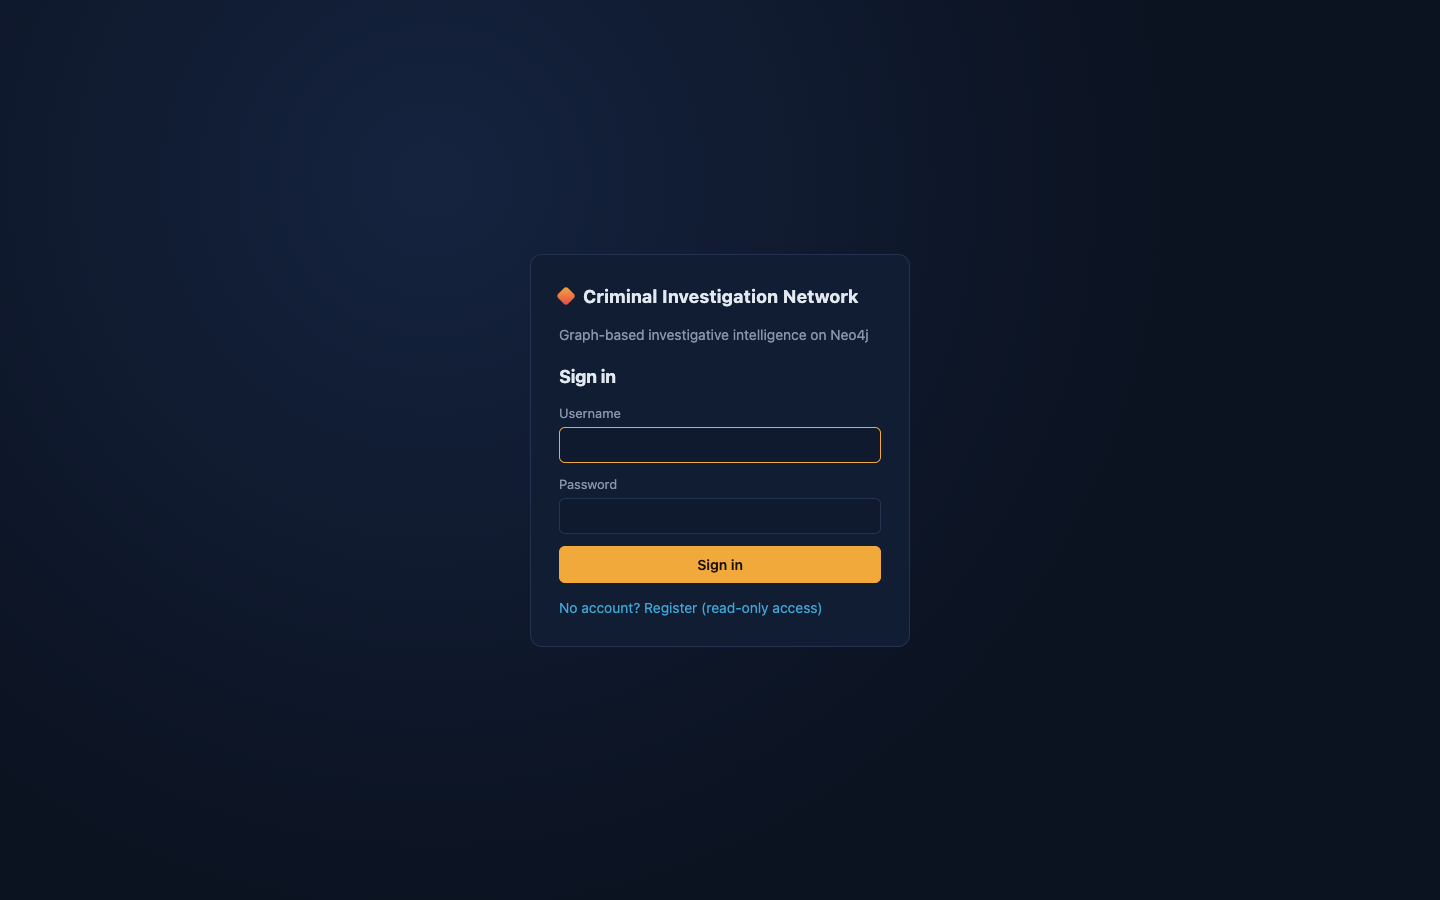
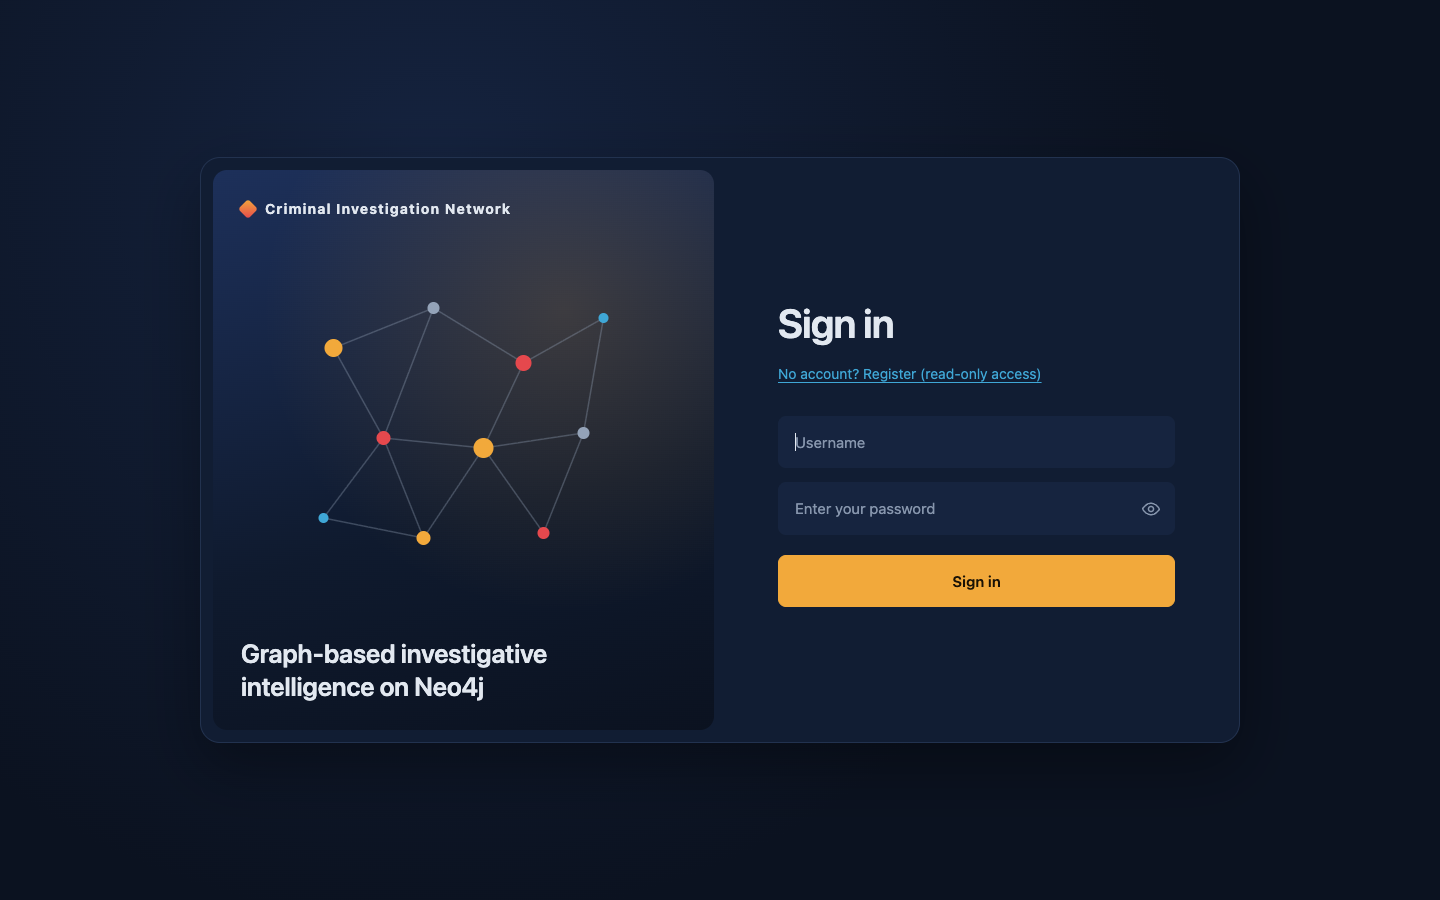
feat(web): redesign sign-in page
Two-panel layout with a decorative evidence-network illustration,
placeholder inputs with screen-reader labels and a show/hide password
toggle. Updates the login screenshot.

diff --git a/web/src/pages/Login.tsx b/web/src/pages/Login.tsx
@@ -1,10 +1,19 @@
 import { useState, type FormEvent } from 'react';
 import { api, describe, setSession, type Session } from '../api';
 
+// Decorative evidence-network art for the hero panel: amber = suspect, red = crime, blue = location, grey = officer.
+const NODES: [number, number, number, string][] = [
+  [70, 80, 9, '#f2a93b'], [170, 40, 6, '#94a3b8'], [260, 95, 8, '#e5484d'], [340, 50, 5, '#3fa7d6'],
+  [120, 170, 7, '#e5484d'], [220, 180, 10, '#f2a93b'], [320, 165, 6, '#94a3b8'], [60, 250, 5, '#3fa7d6'],
+  [160, 270, 7, '#f2a93b'], [280, 265, 6, '#e5484d'],
+];
+const EDGES: [number, number][] = [[0, 1], [1, 2], [2, 3], [0, 4], [1, 4], [2, 5], [4, 5], [5, 6], [3, 6], [4, 7], [4, 8], [5, 8], [5, 9], [6, 9], [7, 8]];
+
 export default function Login() {
   const [mode, setMode] = useState<'login' | 'register'>('login');
   const [username, setUsername] = useState('');
   const [password, setPassword] = useState('');
+  const [showPw, setShowPw] = useState(false);
   const [busy, setBusy] = useState(false);
   const [error, setError] = useState('');
   const [note, setNote] = useState('');
@@ -32,26 +41,45 @@ export default function Login() {
 
   return (
     <main className="login">
-      <div className="login-card">
-        <div className="brand brand-lg"><span className="brand-mark" aria-hidden />Criminal Investigation Network</div>
-        <p className="muted">Graph-based investigative intelligence on Neo4j</p>
-        <form onSubmit={submit} noValidate>
+      <div className="login-shell">
+        <aside className="login-hero">
+          <div className="brand"><span className="brand-mark" aria-hidden />Criminal Investigation Network</div>
+          <svg className="login-art" viewBox="0 0 400 320" aria-hidden>
+            {EDGES.map(([a, b]) => <line key={`${a}-${b}`} x1={NODES[a][0]} y1={NODES[a][1]} x2={NODES[b][0]} y2={NODES[b][1]} />)}
+            {NODES.map(([x, y, r, c]) => <circle key={`${x}-${y}`} cx={x} cy={y} r={r} fill={c} />)}
+          </svg>
+          <p className="login-tagline">Graph-based investigative intelligence on Neo4j</p>
+        </aside>
+
+        <section className="login-main">
           <h1>{mode === 'login' ? 'Sign in' : 'Create an account'}</h1>
-          <label>Username
-            <input value={username} onChange={(e) => setUsername(e.target.value.trim().toLowerCase())} autoComplete="username" autoFocus required
-              aria-invalid={!!username && !usernameOk} />
-          </label>
-          <label>Password
-            <input type="password" value={password} onChange={(e) => setPassword(e.target.value)} required
-              autoComplete={mode === 'login' ? 'current-password' : 'new-password'} aria-invalid={!!password && !passwordOk} />
-          </label>
-          {error && <div className="alert alert-error" role="alert">{error}</div>}
-          {note && <div className="alert alert-ok" role="status">{note}</div>}
-          <button className="btn btn-primary btn-block" disabled={busy}>{busy ? 'Please wait…' : mode === 'login' ? 'Sign in' : 'Register'}</button>
-        </form>
-        <button className="linkbtn" onClick={() => { setMode(mode === 'login' ? 'register' : 'login'); setError(''); setNote(''); }}>
-          {mode === 'login' ? 'No account? Register (read-only access)' : 'Have an account? Sign in'}
-        </button>
+          <button type="button" className="linkbtn login-switch" onClick={() => { setMode(mode === 'login' ? 'register' : 'login'); setError(''); setNote(''); }}>
+            {mode === 'login' ? 'No account? Register (read-only access)' : 'Have an account? Sign in'}
+          </button>
+
+          <form onSubmit={submit} noValidate>
+            <label>
+              <span className="sr-only">Username</span>
+              <input placeholder="Username" value={username} onChange={(e) => setUsername(e.target.value.trim().toLowerCase())}
+                autoComplete="username" autoFocus required aria-invalid={!!username && !usernameOk} />
+            </label>
+            <label className="pw">
+              <span className="sr-only">Password</span>
+              <input placeholder="Enter your password" type={showPw ? 'text' : 'password'} value={password} onChange={(e) => setPassword(e.target.value)} required
+                autoComplete={mode === 'login' ? 'current-password' : 'new-password'} aria-invalid={!!password && !passwordOk} />
+              <button type="button" className="pw-toggle" onClick={() => setShowPw(!showPw)} aria-label={showPw ? 'Hide password' : 'Show password'} aria-pressed={showPw}>
+                <svg viewBox="0 0 24 24" width="20" height="20" fill="none" stroke="currentColor" strokeWidth="1.8" strokeLinecap="round" strokeLinejoin="round" aria-hidden>
+                  <path d="M2 12s3.6-7 10-7 10 7 10 7-3.6 7-10 7S2 12 2 12Z" />
+                  <circle cx="12" cy="12" r="3" />
+                  {showPw && <path d="M4 20 20 4" />}
+                </svg>
+              </button>
+            </label>
+            {error && <div className="alert alert-error" role="alert">{error}</div>}
+            {note && <div className="alert alert-ok" role="status">{note}</div>}
+            <button className="btn btn-primary btn-block" disabled={busy}>{busy ? 'Please wait…' : mode === 'login' ? 'Sign in' : 'Register'}</button>
+          </form>
+        </section>
       </div>
     </main>
   );

diff --git a/web/src/styles.css b/web/src/styles.css
@@ -176,11 +176,27 @@ a.tag:hover { text-decoration: none; border-color: var(--amber); }
 .query-run h3 { margin-top: 0; }
 
 /* ---------- login */
-.login { min-height: 100vh; display: flex; align-items: center; justify-content: center; padding: 16px; background: radial-gradient(circle at 30% 20%, #15233f, var(--bg) 60%); }
-.login-card { width: 100%; max-width: 380px; background: var(--panel); border: 1px solid var(--line); border-radius: 12px; padding: 28px; }
-.login-card form { display: flex; flex-direction: column; gap: 12px; margin: 18px 0 14px; }
-.login-card h1 { font-size: 18px; }
-.login-card label { display: flex; flex-direction: column; gap: 4px; font-size: 13px; color: var(--muted); }
+.sr-only { position: absolute; width: 1px; height: 1px; overflow: hidden; clip: rect(0 0 0 0); white-space: nowrap; }
+.login { min-height: 100vh; display: flex; align-items: center; justify-content: center; padding: 24px; background: radial-gradient(circle at 30% 20%, #15233f, var(--bg) 60%); }
+.login-shell { width: 100%; max-width: 1040px; display: grid; grid-template-columns: 1fr 1fr; gap: 12px; padding: 12px;
+  background: var(--panel); border: 1px solid var(--line); border-radius: 20px; box-shadow: 0 24px 60px rgba(0, 0, 0, 0.35); }
+.login-hero { display: flex; flex-direction: column; justify-content: space-between; gap: 16px; min-height: 560px; padding: 28px; border-radius: 14px;
+  background: radial-gradient(circle at 70% 25%, rgba(242, 169, 59, 0.18), transparent 55%), linear-gradient(165deg, #1d305a, var(--bg-2) 60%, var(--bg)); }
+.login-art { width: 100%; max-height: 320px; flex: 1; min-height: 0; }
+.login-art line { stroke: #94a3b8; stroke-opacity: 0.35; stroke-width: 1.5; }
+.login-tagline { margin: 0; font-size: 26px; line-height: 1.25; font-weight: 600; letter-spacing: -0.01em; max-width: 14em; }
+.login-main { display: flex; flex-direction: column; justify-content: center; padding: clamp(20px, 4vw, 52px); }
+.login-main h1 { font-size: clamp(28px, 4vw, 40px); font-weight: 600; letter-spacing: -0.02em; margin: 0 0 10px; }
+.login-switch { text-decoration: underline; text-underline-offset: 3px; }
+.login-main form { display: flex; flex-direction: column; gap: 14px; margin-top: 32px; }
+.login-main input { width: 100%; padding: 14px 16px; font-size: 15px; background: var(--panel-2); border-color: transparent; border-radius: 8px; }
+.login-main input::placeholder { color: var(--muted); }
+.login-main label.pw { position: relative; display: block; }
+.login-main label.pw input { padding-right: 48px; }
+.pw-toggle { position: absolute; right: 6px; top: 50%; transform: translateY(-50%); display: grid; place-items: center; width: 36px; height: 36px;
+  background: none; border: 0; border-radius: 6px; color: var(--muted); cursor: pointer; }
+.pw-toggle:hover { color: var(--text); }
+.login-main .btn-primary { padding: 14px; font-size: 15px; border-radius: 8px; margin-top: 6px; }
 
 /* ---------- responsive */
 @media (max-width: 1100px) {
@@ -190,6 +206,10 @@ a.tag:hover { text-decoration: none; border-color: var(--amber); }
   .queries { grid-template-columns: 1fr; }
 }
 @media (max-width: 760px) {
+  .login { padding: 12px; }
+  .login-shell { grid-template-columns: 1fr; }
+  .login-hero { min-height: 0; padding: 16px 20px; }
+  .login-art, .login-tagline { display: none; }
   .topbar { padding: 0 16px; gap: 10px; flex-wrap: wrap; height: auto; min-height: 56px; }
   .topbar .menu-btn { display: inline-flex; margin-left: auto; }
   .mainnav { display: none; width: 100%; flex-direction: column; padding-bottom: 8px; }
